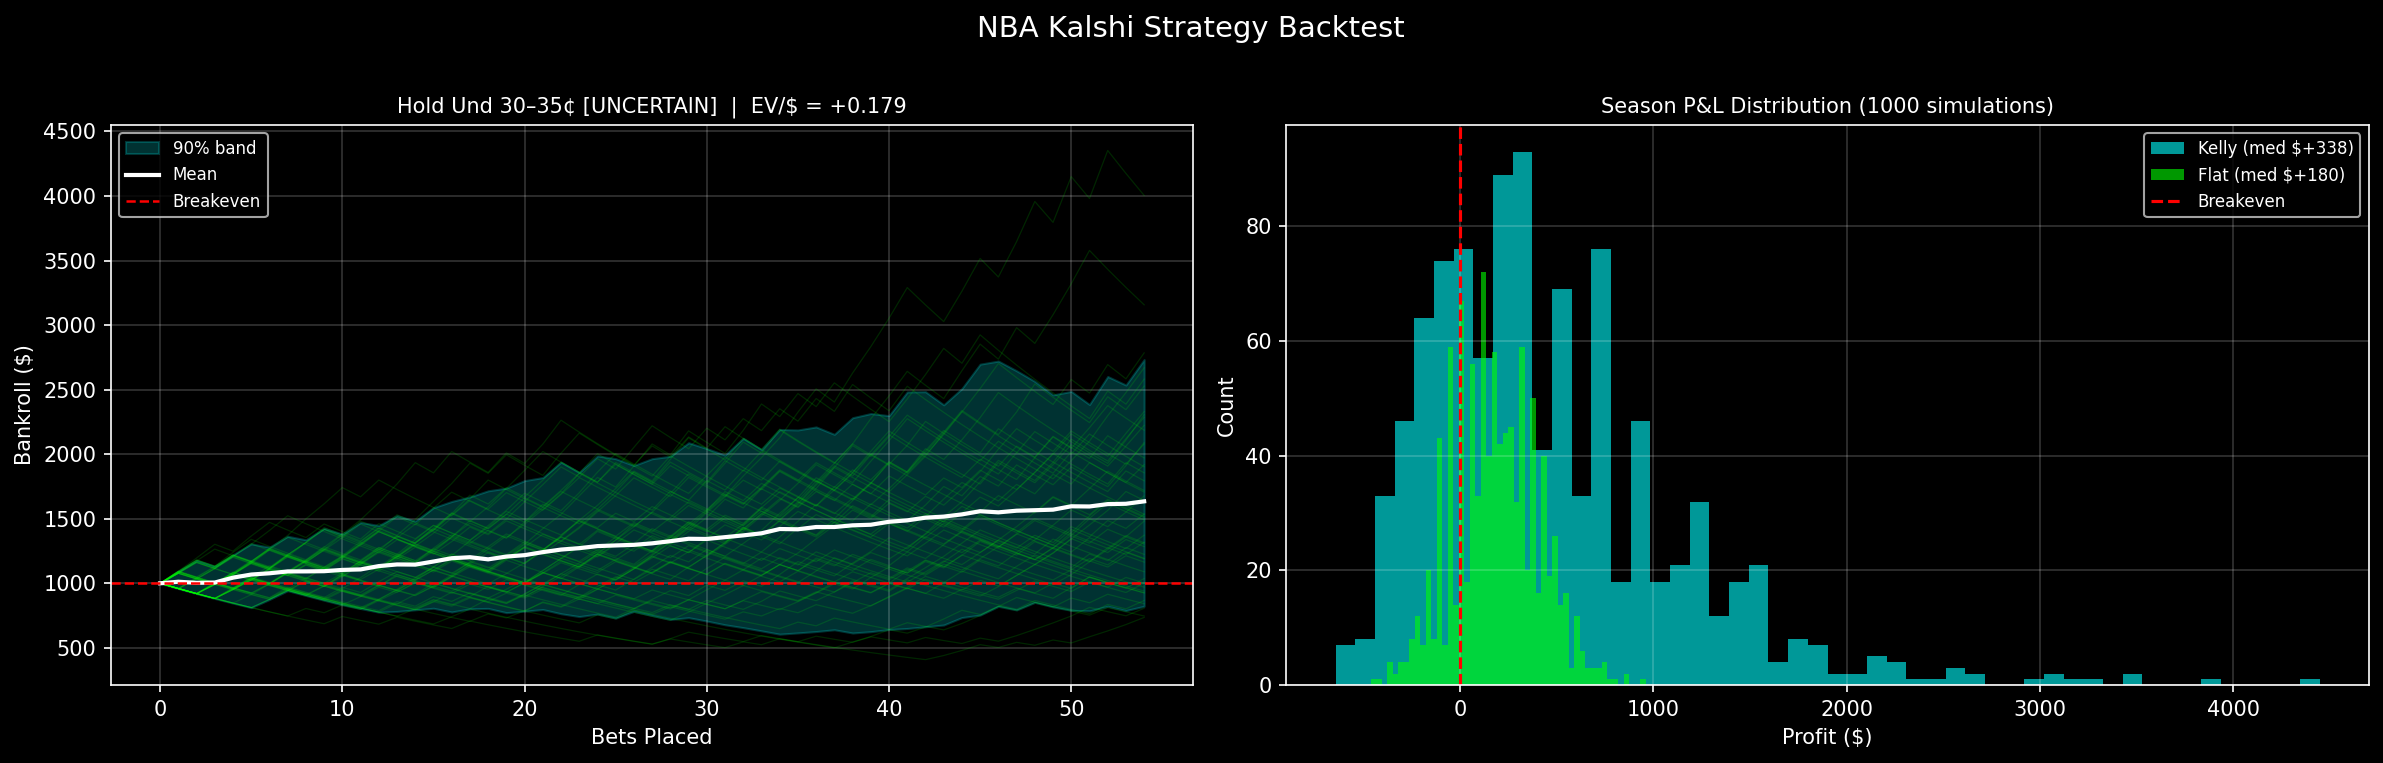
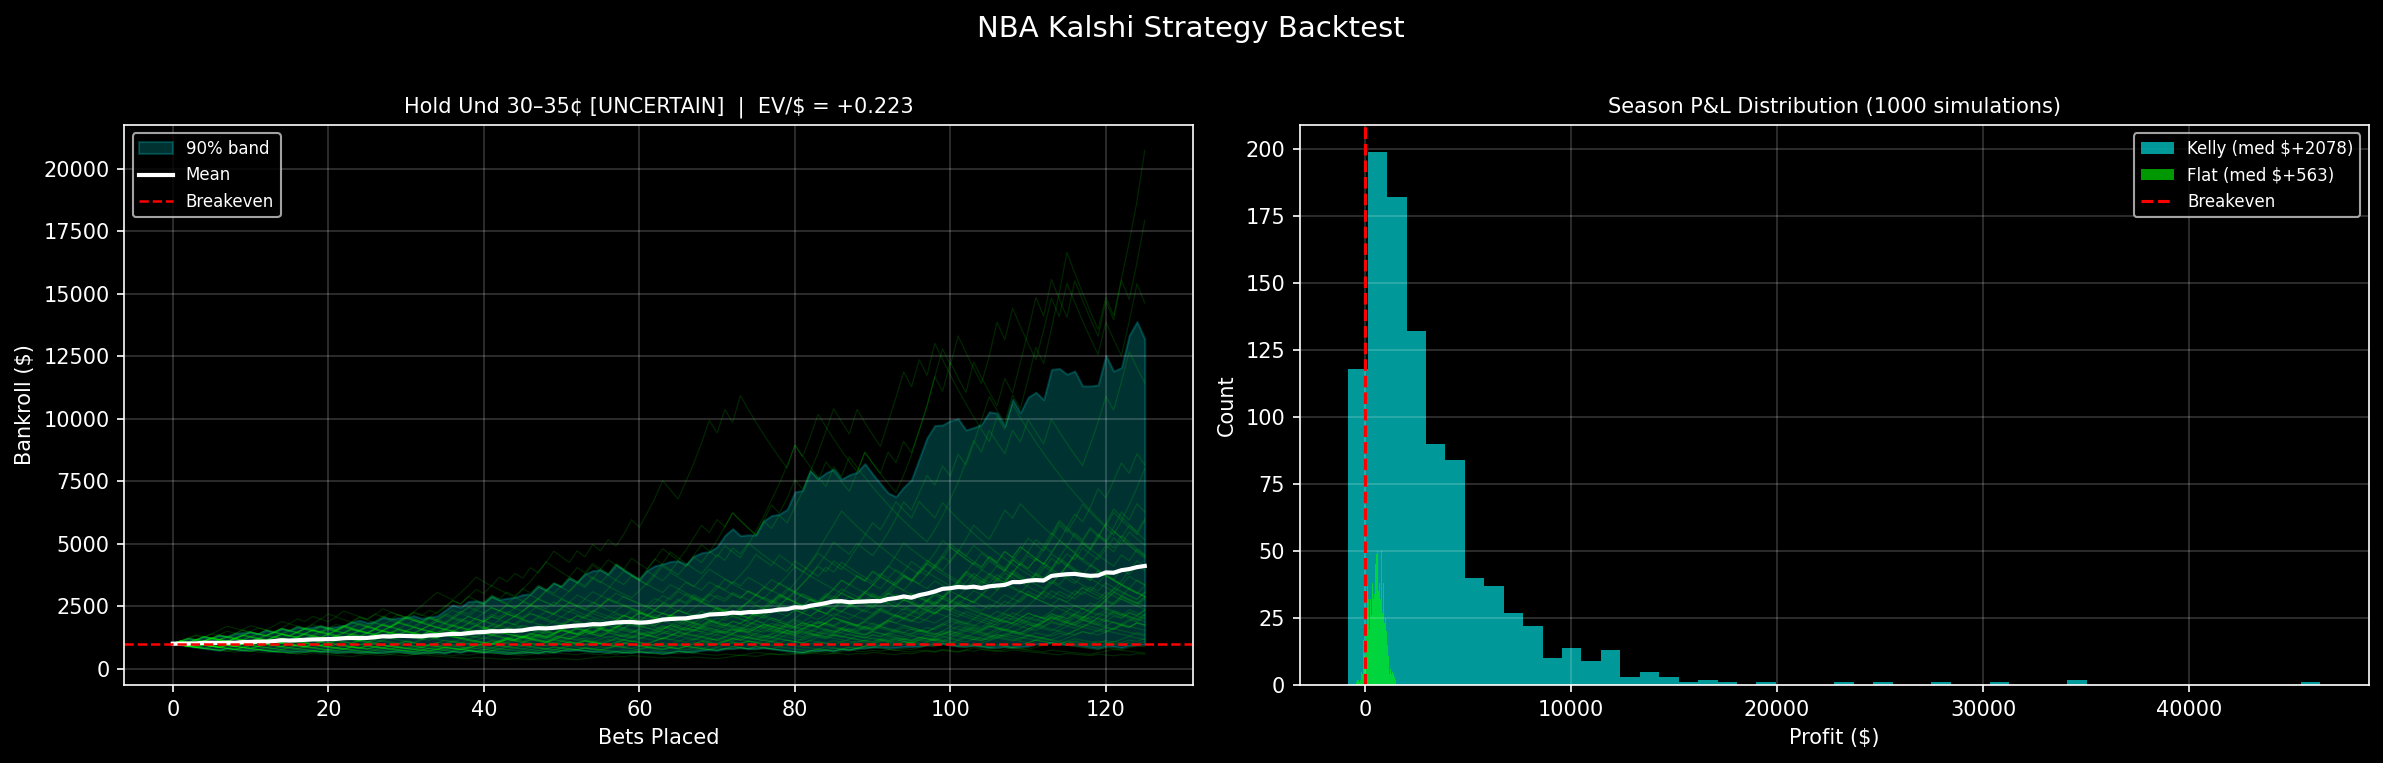
buy at 30-35 and hold

diff --git a/data_retrieval/get_kalshi_nba_data.py b/data_retrieval/get_kalshi_nba_data.py
@@ -32,7 +32,7 @@ def parse_kalshi_date(date_str):
 
 def is_valid_nba_game(market):
     title = market.get('title', '').lower()
-    if " vs " not in title and " @" not in title and " vs." not in title:
+    if " vs " not in title and " @" not in title and " vs." not in title and " at " not in title:
         return False
     bad_keywords = ["season", "champion", "series", "mvp", "finals"]
     if any(k in title for k in bad_keywords):